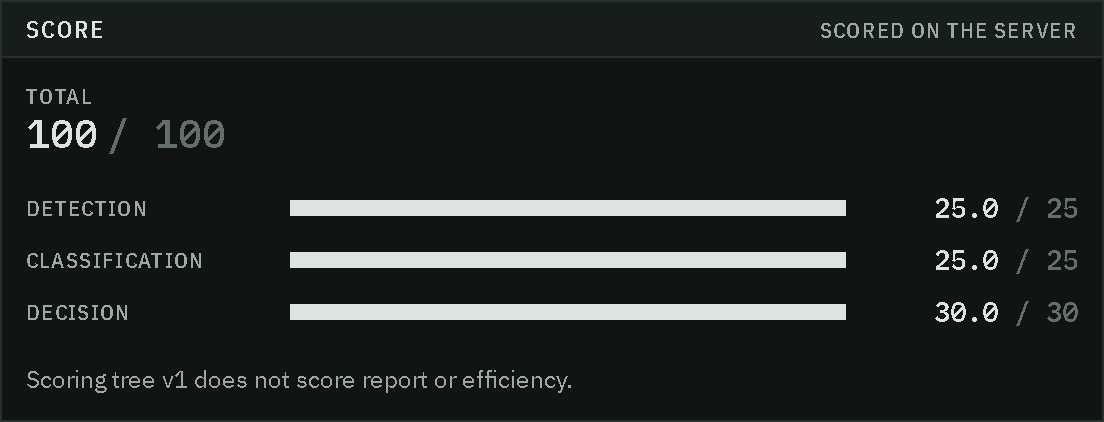
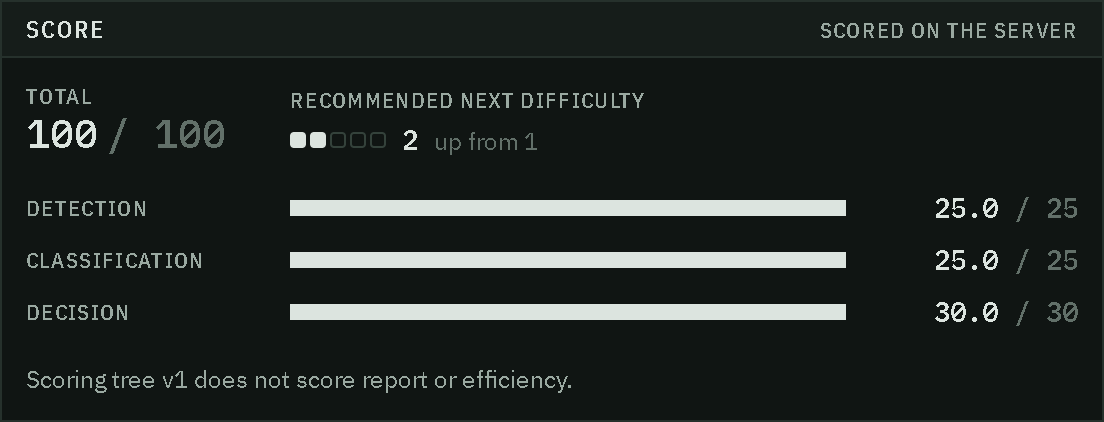
fix(web): result crops with true class and recommendation
Re-recorded measure-result and chain-assess against a fresh API so they show
the per-contact true class and the recommended next difficulty; singular
"1 contact" in the result table header.

Changed region(s): [[0.2464, 0.3081, 0.4928, 0.3697], [0.2464, 0.2156, 0.5851, 0.2773]]

diff --git a/apps/web/components/sim/result-screen.tsx b/apps/web/components/sim/result-screen.tsx
@@ -294,7 +294,9 @@ export function ResultScreen({
 
       <Panel>
         <PanelHeader title="What was there vs what you did">
-          <span className="text-label">{contacts.length} contacts</span>
+          <span className="text-label">
+            {contacts.length} {contacts.length === 1 ? 'contact' : 'contacts'}
+          </span>
         </PanelHeader>
         <div className="overflow-x-auto">
           <table className="w-full border-collapse" aria-label="Per contact">
